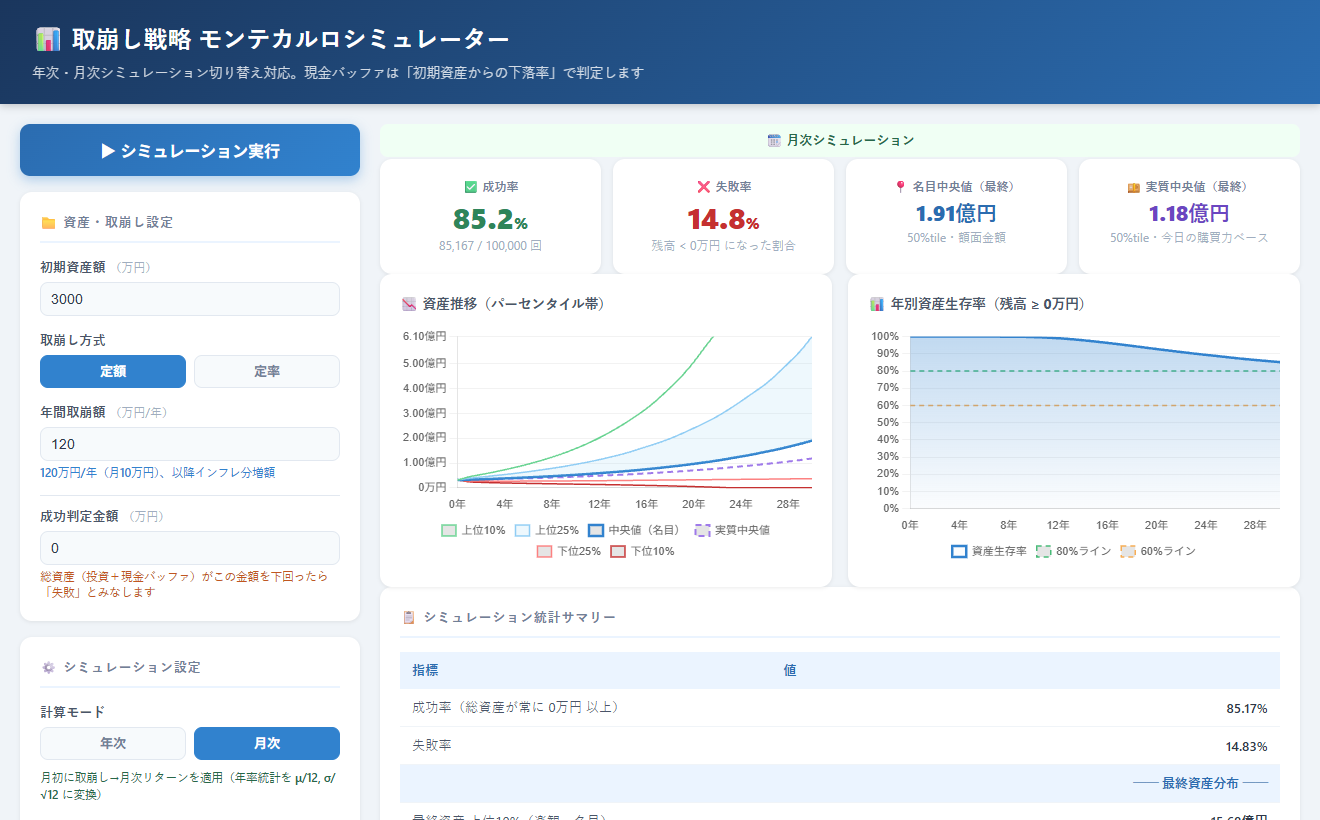
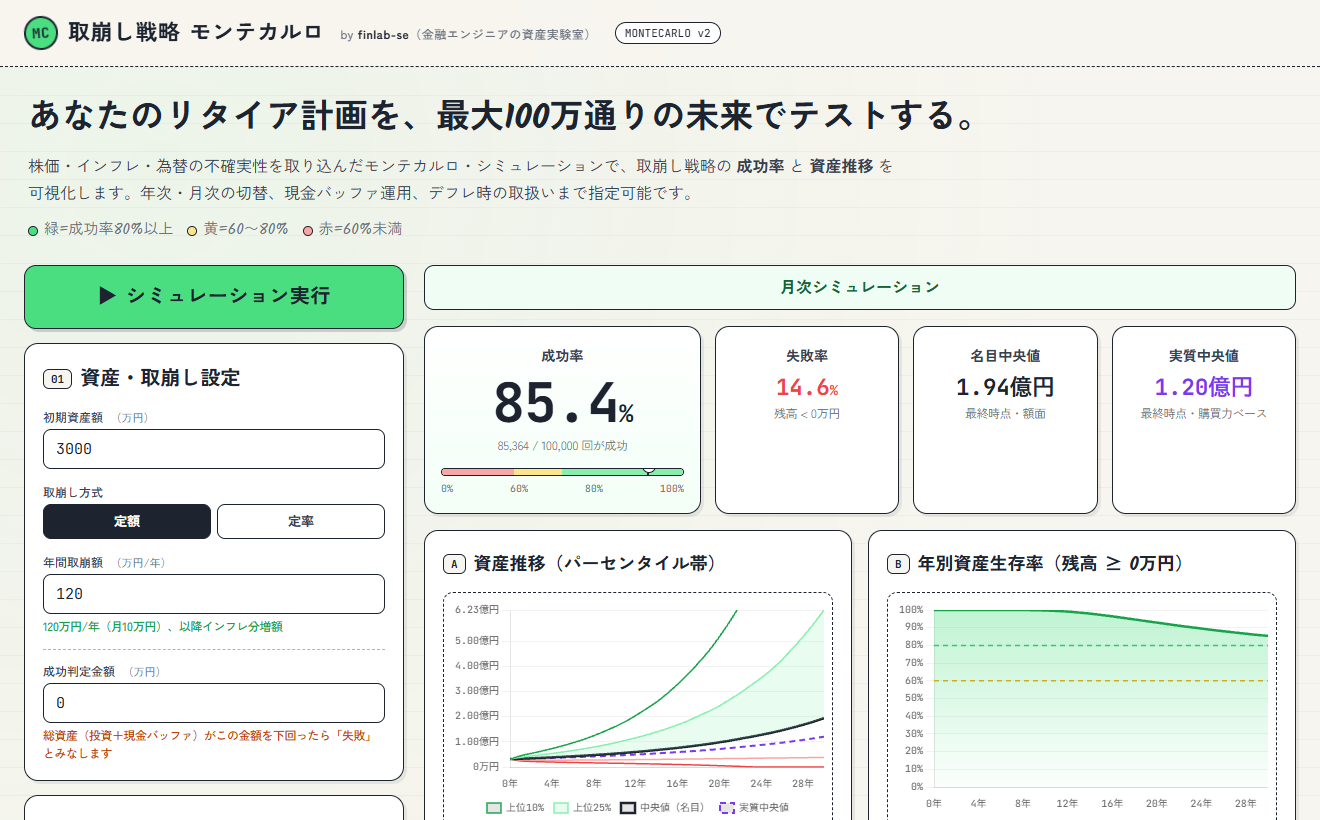
tools: ロゴ准拠の SVG ファビコン追加 + モンテカルロ紹介画像差し替え
- montecarlo: favicon.svg（緑円＋"MC"）を追加し <link rel="icon"> 設定
- dividend-target-simulator: favicon.svg（緑円＋"DY"）を追加し <link rel="icon"> 設定
- montecarlo-tool-usage-screenshot.png: リデザイン後の UI で撮り直し

diff --git a/static/tools/dividend-target-simulator/index.html b/static/tools/dividend-target-simulator/index.html
@@ -5,6 +5,7 @@
 <meta name="viewport" content="width=device-width, initial-scale=1" />
 <title>必要配当利回り逆算シミュレータ｜finlab-se</title>
 <meta name="description" content="目標配当額から、いま必要な平均配当利回りを逆算するシミュレータ。入金額・投資期間・増配率を変えながら、現実的な達成プランを探せます。" />
+<link rel="icon" type="image/svg+xml" href="favicon.svg" />
 <link rel="preconnect" href="https://fonts.googleapis.com" />
 <link rel="preconnect" href="https://fonts.gstatic.com" crossorigin />
 <link href="https://fonts.googleapis.com/css2?family=Kalam:wght@400;700&family=Caveat:wght@400;700&family=Zen+Kaku+Gothic+New:wght@400;500;700&family=JetBrains+Mono:wght@400;500;700&display=swap" rel="stylesheet" />

diff --git a/static/tools/montecarlo/index.html b/static/tools/montecarlo/index.html
@@ -5,6 +5,7 @@
   <meta name="viewport" content="width=device-width, initial-scale=1.0">
   <title>取崩し戦略 モンテカルロシミュレーター｜finlab-se</title>
   <meta name="description" content="リタイア後の資産取崩し戦略を最大100万通りの未来でテストする、モンテカルロ・シミュレーター。" />
+  <link rel="icon" type="image/svg+xml" href="favicon.svg" />
   <link rel="preconnect" href="https://fonts.googleapis.com" />
   <link rel="preconnect" href="https://fonts.gstatic.com" crossorigin />
   <link href="https://fonts.googleapis.com/css2?family=Kalam:wght@400;700&family=Caveat:wght@400;700&family=Zen+Kaku+Gothic+New:wght@400;500;700&family=JetBrains+Mono:wght@400;500;700&display=swap" rel="stylesheet" />
